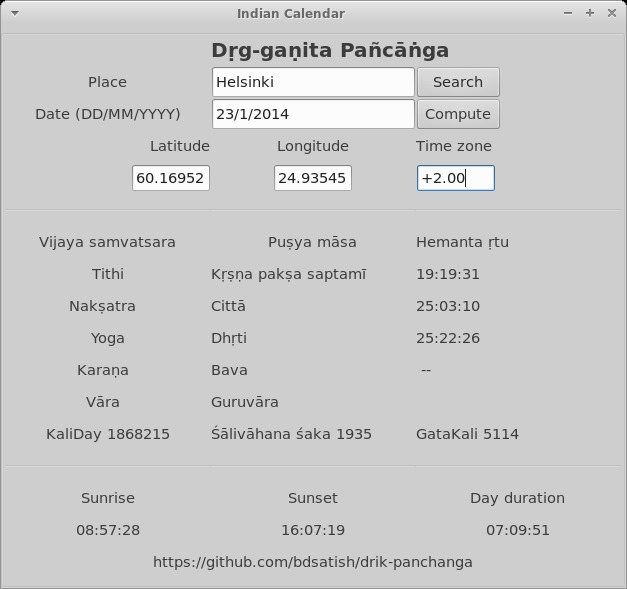
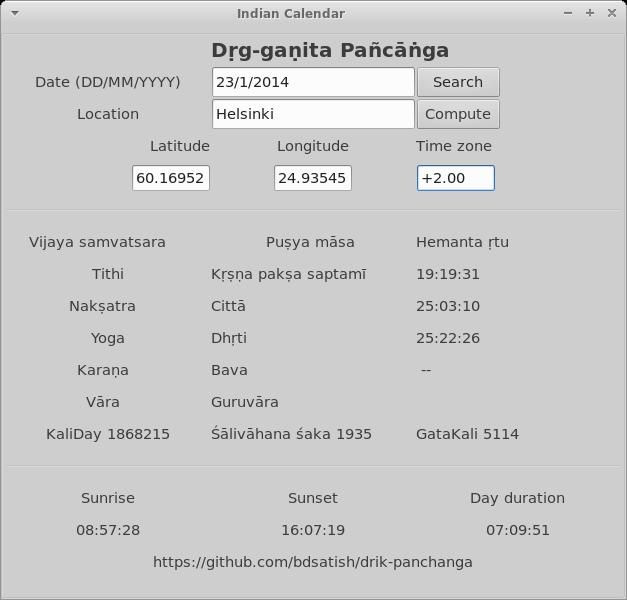
Swapped order of Place and Date again. Avoids TZone errors.

diff --git a/gui.py b/gui.py
@@ -42,39 +42,39 @@ class Panchanga(wx.Frame):
         # begin wxGlade: Panchanga.__init__
         kwds["style"] = wx.DEFAULT_FRAME_STYLE
         wx.Frame.__init__(self, *args, **kwds)
-        self.placeTxt = wx.TextCtrl(self, -1, "Bangalore")
-        self.searchBtn = wx.Button(self, -1, "Search")
-        self.dateTxt = wx.TextCtrl(self, -1, "23/01/2013")
-        self.computeBtn = wx.Button(self, -1, "Compute")
-        self.latTxt = wx.TextCtrl(self, -1, "12.97194", style=wx.TE_PROCESS_TAB)
-        self.lonTxt = wx.TextCtrl(self, -1, "77.59369", style=wx.TE_PROCESS_TAB)
-        self.tzTxt = wx.TextCtrl(self, -1, "+5.5")
-        self.samvatTxt = wx.StaticText(self, -1, "Nandana samvatsara")
-        self.masaTxt = wx.StaticText(self, -1, u"Puṣya  māsa")
-        self.rituTxt = wx.StaticText(self, -1, u"Hemanta ṛtu")
-        self.tithiTxt = wx.StaticText(self, -1, u"Śukla pakṣa dvādaṣī   ")
-        self.tithiTimeTxt = wx.StaticText(self, -1, "28:43:28")
-        self.nakTxt = wx.StaticText(self, -1, u"Rohiṇī")
-        self.nakTimeTxt = wx.StaticText(self, -1, "06:57:56")
-        self.yogaTxt = wx.StaticText(self, -1, "Brahma")
-        self.yogaTimeTxt = wx.StaticText(self, -1, "08:32:02")
-        self.karanaTxt = wx.StaticText(self, -1, "Bhava")
-        self.karanaTimeTxt = wx.StaticText(self, -1, "15:27:47")
-        self.varaTxt = wx.StaticText(self, -1, u"Budhavāra  ")
-        self.aharTxt = wx.StaticText(self, -1, "KaliDay 1867850")
-        self.sakaTxt = wx.StaticText(self, -1, u"Śālivāhana śaka 1934 ")
-        self.kaliTxt = wx.StaticText(self, -1, "GataKali 5113")
-        self.sunriseTxt = wx.StaticText(self, -1, "06:47:38")
-        self.sunsetTxt = wx.StaticText(self, -1, "18:15:31")
-        self.duraTxt = wx.StaticText(self, -1, "11:27:52")
-        self.sizer_1_staticbox = wx.StaticBox(self, -1, "")
+        self.dateTxt = wx.TextCtrl(self, wx.ID_ANY, "23/01/2013")
+        self.searchBtn = wx.Button(self, wx.ID_ANY, "Search")
+        self.placeTxt = wx.TextCtrl(self, wx.ID_ANY, "Bangalore")
+        self.computeBtn = wx.Button(self, wx.ID_ANY, "Compute")
+        self.latTxt = wx.TextCtrl(self, wx.ID_ANY, "12.97194", style=wx.TE_PROCESS_TAB)
+        self.lonTxt = wx.TextCtrl(self, wx.ID_ANY, "77.59369", style=wx.TE_PROCESS_TAB)
+        self.tzTxt = wx.TextCtrl(self, wx.ID_ANY, "+5.5")
+        self.samvatTxt = wx.StaticText(self, wx.ID_ANY, "Nandana samvatsara")
+        self.masaTxt = wx.StaticText(self, wx.ID_ANY, u"Pu\u1e63ya  m\u0101sa")
+        self.rituTxt = wx.StaticText(self, wx.ID_ANY, u"Hemanta \u1e5btu")
+        self.tithiTxt = wx.StaticText(self, wx.ID_ANY, u"\u015aukla pak\u1e63a dv\u0101da\u1e63\u012b   ")
+        self.tithiTimeTxt = wx.StaticText(self, wx.ID_ANY, "28:43:28")
+        self.nakTxt = wx.StaticText(self, wx.ID_ANY, u"Rohi\u1e47\u012b")
+        self.nakTimeTxt = wx.StaticText(self, wx.ID_ANY, "06:57:56")
+        self.yogaTxt = wx.StaticText(self, wx.ID_ANY, "Brahma")
+        self.yogaTimeTxt = wx.StaticText(self, wx.ID_ANY, "08:32:02")
+        self.karanaTxt = wx.StaticText(self, wx.ID_ANY, "Bhava")
+        self.karanaTimeTxt = wx.StaticText(self, wx.ID_ANY, "15:27:47")
+        self.varaTxt = wx.StaticText(self, wx.ID_ANY, u"Budhav\u0101ra  ")
+        self.aharTxt = wx.StaticText(self, wx.ID_ANY, "KaliDay 1867850")
+        self.sakaTxt = wx.StaticText(self, wx.ID_ANY, u"\u015a\u0101liv\u0101hana \u015baka 1934 ")
+        self.kaliTxt = wx.StaticText(self, wx.ID_ANY, "GataKali 5113")
+        self.sunriseTxt = wx.StaticText(self, wx.ID_ANY, "06:47:38")
+        self.sunsetTxt = wx.StaticText(self, wx.ID_ANY, "18:15:31")
+        self.duraTxt = wx.StaticText(self, wx.ID_ANY, "11:27:52")
+        self.sizer_1_staticbox = wx.StaticBox(self, wx.ID_ANY, "")
 
         self.__set_properties()
         self.__do_layout()
 
-        self.Bind(wx.EVT_TEXT_ENTER, self.search_location, self.placeTxt)
-        self.Bind(wx.EVT_BUTTON, self.search_location, self.searchBtn)
         self.Bind(wx.EVT_TEXT_ENTER, self.calculate_panchanga, self.dateTxt)
+        self.Bind(wx.EVT_BUTTON, self.search_location, self.searchBtn)
+        self.Bind(wx.EVT_TEXT_ENTER, self.search_location, self.placeTxt)
         self.Bind(wx.EVT_BUTTON, self.calculate_panchanga, self.computeBtn)
         self.Bind(wx.EVT_TEXT_ENTER, self.set_place, self.latTxt)
         self.Bind(wx.EVT_TEXT, self.set_place, self.latTxt)
@@ -93,10 +93,10 @@ class Panchanga(wx.Frame):
         self.SetTitle("Indian Calendar")
         self.SetSize((625, 575))
         self.SetToolTipString("Can also be entered as: 77d 35' 37\"")
-        self.placeTxt.SetToolTipString("If the search fails, enter Latitude, Longitude and Time zone directly below and click \"Compute\". Enter ASCII names only.")
-        self.searchBtn.SetForegroundColour(wx.Colour(44, 44, 44))
-        self.dateTxt.SetToolTipString("Type the date, hit ENTER and click \"Compute\". Negative years are treated as per proleptic Gregorian calendar.")
+        self.dateTxt.SetToolTipString("Enter date and then Location below. Negative years are treated as per proleptic Gregorian calendar.")
         self.dateTxt.SetFocus()
+        self.searchBtn.SetForegroundColour(wx.Colour(44, 44, 44))
+        self.placeTxt.SetToolTipString("Type location, click Search. If the search fails, enter Latitude, Longitude and Time zone directly below. Lastly, \"Compute\". Enter ASCII names only.")
         self.latTxt.SetToolTipString("Can also be entered as: 12d 58' 19\"")
         self.tzTxt.SetToolTipString("In hours. Positive values are east of UTC and negative, west of UTC.")
         # end wxGlade
@@ -106,82 +106,82 @@ class Panchanga(wx.Frame):
         self.sizer_1_staticbox.Lower()
         sizer_1 = wx.StaticBoxSizer(self.sizer_1_staticbox, wx.HORIZONTAL)
         grid_sizer_1 = wx.GridSizer(16, 3, 0, 0)
-        label_1 = wx.StaticText(self, -1, "")
+        label_1 = wx.StaticText(self, wx.ID_ANY, "")
         grid_sizer_1.Add(label_1, 0, 0, 0)
-        label_2 = wx.StaticText(self, -1, u"Dṛg-gaṇita Pañcāṅga", style=wx.ALIGN_RIGHT | wx.ALIGN_CENTRE)
+        label_2 = wx.StaticText(self, wx.ID_ANY, u"D\u1e5bg-ga\u1e47ita Pa\xf1c\u0101\u1e45ga", style=wx.ALIGN_RIGHT | wx.ALIGN_CENTRE)
         label_2.SetMinSize((319, 24))
         label_2.SetFont(wx.Font(15, wx.DEFAULT, wx.NORMAL, wx.BOLD, 0, ""))
         grid_sizer_1.Add(label_2, 0, wx.ALIGN_CENTER_VERTICAL, 0)
-        label_4 = wx.StaticText(self, -1, "")
+        label_4 = wx.StaticText(self, wx.ID_ANY, "")
         grid_sizer_1.Add(label_4, 0, 0, 0)
-        label_6 = wx.StaticText(self, -1, "Location")
-        grid_sizer_1.Add(label_6, 0, wx.ALIGN_CENTER_HORIZONTAL | wx.ALIGN_CENTER_VERTICAL, 0)
-        grid_sizer_1.Add(self.placeTxt, 0, wx.EXPAND | wx.ALIGN_CENTER_VERTICAL, 0)
-        grid_sizer_1.Add(self.searchBtn, 0, 0, 0)
-        label_3 = wx.StaticText(self, -1, "Date (DD/MM/YYYY)")
+        label_3 = wx.StaticText(self, wx.ID_ANY, "Date (DD/MM/YYYY)")
         grid_sizer_1.Add(label_3, 0, wx.ALIGN_CENTER_HORIZONTAL | wx.ALIGN_CENTER_VERTICAL, 0)
         grid_sizer_1.Add(self.dateTxt, 0, wx.ALL | wx.EXPAND | wx.ALIGN_CENTER_VERTICAL, 0)
+        grid_sizer_1.Add(self.searchBtn, 0, 0, 0)
+        label_6 = wx.StaticText(self, wx.ID_ANY, "Location")
+        grid_sizer_1.Add(label_6, 0, wx.ALIGN_CENTER_HORIZONTAL | wx.ALIGN_CENTER_VERTICAL, 0)
+        grid_sizer_1.Add(self.placeTxt, 0, wx.EXPAND | wx.ALIGN_CENTER_VERTICAL, 0)
         grid_sizer_1.Add(self.computeBtn, 0, 0, 0)
-        label_31 = wx.StaticText(self, -1, "Latitude")
+        label_31 = wx.StaticText(self, wx.ID_ANY, "Latitude")
         grid_sizer_1.Add(label_31, 0, wx.ALIGN_RIGHT | wx.ALIGN_CENTER_VERTICAL, 0)
-        label_32 = wx.StaticText(self, -1, "Longitude")
+        label_32 = wx.StaticText(self, wx.ID_ANY, "Longitude")
         grid_sizer_1.Add(label_32, 0, wx.ALIGN_CENTER_HORIZONTAL | wx.ALIGN_CENTER_VERTICAL, 0)
-        label_33 = wx.StaticText(self, -1, "Time zone")
+        label_33 = wx.StaticText(self, wx.ID_ANY, "Time zone")
         grid_sizer_1.Add(label_33, 0, wx.ALIGN_CENTER_VERTICAL, 0)
         grid_sizer_1.Add(self.latTxt, 0, wx.RIGHT | wx.ALIGN_RIGHT | wx.ALIGN_CENTER_VERTICAL, 0)
         grid_sizer_1.Add(self.lonTxt, 0, wx.ALIGN_RIGHT | wx.ALIGN_CENTER_HORIZONTAL | wx.ALIGN_CENTER_VERTICAL, 0)
         grid_sizer_1.Add(self.tzTxt, 0, wx.ALIGN_CENTER_VERTICAL, 0)
-        static_line_1 = wx.StaticLine(self, -1)
+        static_line_1 = wx.StaticLine(self, wx.ID_ANY)
         grid_sizer_1.Add(static_line_1, 0, wx.EXPAND, 0)
-        static_line_2 = wx.StaticLine(self, -1)
+        static_line_2 = wx.StaticLine(self, wx.ID_ANY)
         grid_sizer_1.Add(static_line_2, 0, wx.EXPAND, 0)
-        static_line_3 = wx.StaticLine(self, -1)
+        static_line_3 = wx.StaticLine(self, wx.ID_ANY)
         grid_sizer_1.Add(static_line_3, 0, wx.EXPAND, 0)
         grid_sizer_1.Add(self.samvatTxt, 0, wx.ALIGN_CENTER_HORIZONTAL | wx.ALIGN_CENTER_VERTICAL, 0)
         grid_sizer_1.Add(self.masaTxt, 0, wx.ALIGN_CENTER_HORIZONTAL | wx.ALIGN_CENTER_VERTICAL, 0)
         grid_sizer_1.Add(self.rituTxt, 0, wx.ALIGN_CENTER_VERTICAL, 0)
-        label_7 = wx.StaticText(self, -1, "Tithi")
+        label_7 = wx.StaticText(self, wx.ID_ANY, "Tithi")
         grid_sizer_1.Add(label_7, 0, wx.ALIGN_CENTER_HORIZONTAL | wx.ALIGN_CENTER_VERTICAL, 0)
         grid_sizer_1.Add(self.tithiTxt, 0, wx.ALIGN_CENTER_VERTICAL, 0)
         grid_sizer_1.Add(self.tithiTimeTxt, 0, wx.ALIGN_CENTER_VERTICAL, 0)
-        label_13 = wx.StaticText(self, -1, u"Nakṣatra  ")
+        label_13 = wx.StaticText(self, wx.ID_ANY, u"Nak\u1e63atra  ")
         grid_sizer_1.Add(label_13, 0, wx.ALIGN_CENTER_HORIZONTAL | wx.ALIGN_CENTER_VERTICAL, 0)
         grid_sizer_1.Add(self.nakTxt, 0, wx.ALIGN_CENTER_VERTICAL, 0)
         grid_sizer_1.Add(self.nakTimeTxt, 0, wx.ALIGN_CENTER_VERTICAL, 0)
-        label_16 = wx.StaticText(self, -1, "Yoga")
+        label_16 = wx.StaticText(self, wx.ID_ANY, "Yoga")
         grid_sizer_1.Add(label_16, 0, wx.ALIGN_CENTER_HORIZONTAL | wx.ALIGN_CENTER_VERTICAL, 0)
         grid_sizer_1.Add(self.yogaTxt, 0, wx.ALIGN_CENTER_VERTICAL, 0)
         grid_sizer_1.Add(self.yogaTimeTxt, 0, wx.ALIGN_CENTER_VERTICAL, 0)
-        label_19 = wx.StaticText(self, -1, u"Karaṇa  ")
+        label_19 = wx.StaticText(self, wx.ID_ANY, u"Kara\u1e47a  ")
         grid_sizer_1.Add(label_19, 0, wx.ALIGN_CENTER_HORIZONTAL | wx.ALIGN_CENTER_VERTICAL, 0)
         grid_sizer_1.Add(self.karanaTxt, 0, wx.ALIGN_CENTER_VERTICAL, 0)
         grid_sizer_1.Add(self.karanaTimeTxt, 0, wx.ALIGN_CENTER_VERTICAL, 0)
-        label_22 = wx.StaticText(self, -1, u"Vāra  ")
+        label_22 = wx.StaticText(self, wx.ID_ANY, u"V\u0101ra  ")
         grid_sizer_1.Add(label_22, 0, wx.ALIGN_CENTER_HORIZONTAL | wx.ALIGN_CENTER_VERTICAL, 0)
         grid_sizer_1.Add(self.varaTxt, 0, wx.ALIGN_CENTER_VERTICAL, 0)
-        label_24 = wx.StaticText(self, -1, "")
+        label_24 = wx.StaticText(self, wx.ID_ANY, "")
         grid_sizer_1.Add(label_24, 0, 0, 0)
         grid_sizer_1.Add(self.aharTxt, 0, wx.ALIGN_CENTER_HORIZONTAL | wx.ALIGN_CENTER_VERTICAL, 0)
         grid_sizer_1.Add(self.sakaTxt, 0, wx.ALIGN_CENTER_VERTICAL, 0)
         grid_sizer_1.Add(self.kaliTxt, 0, wx.ALIGN_CENTER_VERTICAL, 0)
-        static_line_4 = wx.StaticLine(self, -1)
+        static_line_4 = wx.StaticLine(self, wx.ID_ANY)
         grid_sizer_1.Add(static_line_4, 0, wx.EXPAND, 0)
-        static_line_5 = wx.StaticLine(self, -1)
+        static_line_5 = wx.StaticLine(self, wx.ID_ANY)
         grid_sizer_1.Add(static_line_5, 0, wx.EXPAND, 0)
-        static_line_6 = wx.StaticLine(self, -1)
+        static_line_6 = wx.StaticLine(self, wx.ID_ANY)
         grid_sizer_1.Add(static_line_6, 0, wx.EXPAND, 0)
-        label_34 = wx.StaticText(self, -1, "Sunrise")
+        label_34 = wx.StaticText(self, wx.ID_ANY, "Sunrise")
         grid_sizer_1.Add(label_34, 0, wx.ALIGN_CENTER_HORIZONTAL | wx.ALIGN_CENTER_VERTICAL, 0)
-        label_37 = wx.StaticText(self, -1, "Sunset")
+        label_37 = wx.StaticText(self, wx.ID_ANY, "Sunset")
         grid_sizer_1.Add(label_37, 0, wx.ALIGN_CENTER_HORIZONTAL | wx.ALIGN_CENTER_VERTICAL, 0)
-        label_5 = wx.StaticText(self, -1, "Day duration")
+        label_5 = wx.StaticText(self, wx.ID_ANY, "Day duration")
         grid_sizer_1.Add(label_5, 0, wx.ALIGN_CENTER_HORIZONTAL | wx.ALIGN_CENTER_VERTICAL, 0)
         grid_sizer_1.Add(self.sunriseTxt, 0, wx.ALIGN_CENTER_HORIZONTAL | wx.ALIGN_CENTER_VERTICAL, 0)
         grid_sizer_1.Add(self.sunsetTxt, 0, wx.ALIGN_CENTER_HORIZONTAL | wx.ALIGN_CENTER_VERTICAL, 0)
         grid_sizer_1.Add(self.duraTxt, 0, wx.ALIGN_CENTER_HORIZONTAL | wx.ALIGN_CENTER_VERTICAL, 0)
-        label_10 = wx.StaticText(self, -1, "")
+        label_10 = wx.StaticText(self, wx.ID_ANY, "")
         grid_sizer_1.Add(label_10, 0, 0, 0)
-        label_9 = wx.StaticText(self, -1, "https://github.com/bdsatish/drik-panchanga")
+        label_9 = wx.StaticText(self, wx.ID_ANY, "https://github.com/bdsatish/drik-panchanga")
         grid_sizer_1.Add(label_9, 0, wx.ALIGN_CENTER_HORIZONTAL | wx.ALIGN_CENTER_VERTICAL, 0)
         sizer_1.Add(grid_sizer_1, 1, 0, 0)
         self.SetSizer(sizer_1)
@@ -254,7 +254,6 @@ class Panchanga(wx.Frame):
             lon = city['longitude']
             tzname = city['timezone']
             self.tzone = timezone(tzname)
-            print("search_location", self.tzone)
             tz_offset = self.compute_timezone_offset()
             self.place = Place(lat, lon, tz_offset)
 

diff --git a/README.md b/README.md
@@ -63,12 +63,11 @@ Using the GUI
 
 ### Location known
 
-First, type your location (city or district) in the Location field and click 'Search'.  If found,
+First, type the Date in DD/MM/YYYY format in the 'Date' field.
+
+Second, type your location (city or district) in the Location field and click 'Search'.  If found,
 then the coordinates and time zone are updated. If not, try the [next method](#location-unknown).
 If your location's population is more than 50,000 then the location should be found.
-
-Second, type the Date in DD/MM/YYYY format in the 'Date' field. Hit **Enter** on your keyboard.
-(If you forget to hit **Enter**, then time zone may not be updated).
 
 Third, click 'Compute'. Now the fields like tithi, etc. are computed and shown on the GUI.
 
